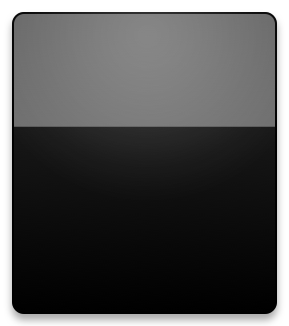
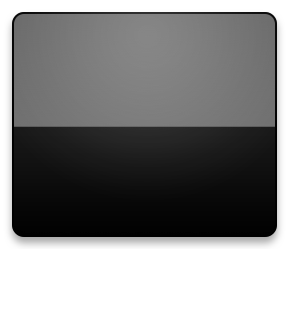
widget now slides open

Changed region(s): [[0.0311, 0.7055, 0.9654, 1.0]]

diff --git a/src/css/widget.css b/src/css/widget.css
@@ -9,6 +9,7 @@ h2 { font-size: 15px; font-family: 'Lucida Grande'; padding: 6px 0px 0px }
 .widgetside .widgetcontent { padding: 20px 20px; height: 310px; position: relative; }
 
 #front { background: transparent url('../images/bg-front-collapsed.png') no-repeat 0px 0px; }
+#front.expanding { background: transparent url('../images/bg-front-collapsed-sliding.png') no-repeat 0px 0px; }
 #front.expanded { background-image: url('../images/bg-front.png'); }
 #back { background: transparent url('../images/bg-back.png') no-repeat 0px 0px; }
 
@@ -39,16 +40,18 @@ input[type=text].error { background: #fcc; }
 #time_container #time { float: left; }
 #time_container input[type=button] { float: right; margin-left: 5px; vertical-align: middle; margin-top: 1px; }
 
-#reportcontainer { position: absolute; top: 155px; left: 20px; width: 250px; }
+#reportcontainerbutton { font-size: 9px; position: absolute; top: 109px; left: 0px; width: 100%; text-align: center;  }
+#reportcontainerbutton a { color: #fff; text-decoration: none; }
+
+#reportcontainer { position: absolute; top: 128px; left: -2px; width: 265px; padding-left: 22px; }
+#reportcontainer.sliding { background: transparent url('../images/slide-bottom.png') no-repeat 2px bottom; overflow: hidden; }
+#reportcontainer div:first-child { margin: 20px 0px 25px; position: absolute; bottom: 0px; }
 #reporthours { width: 30px; font-size: 11px; margin-left: 5px; }
 #reportdescription { width: 195px; font-size: 11px; margin-top: 3px; }
 #reportdate { margin: 3px 0px 0px; }
 #reportdate_toggle { font-size: 9px; margin: 3px 0px 0px; cursor: pointer; }
 #todolist { height: 70px; overflow: auto; width: 200px; }
 #todos { width: 248px; }
+#reportbtn { position: absolute; top: 51px; right: 0px; }
 
-#reportbtn { position: absolute; top: 65px; right: 0px; }
-
-#reportcontainerbutton { font-size: 9px; position: absolute; top: 129px; left: 0px; width: 100%; text-align: center;  }
-#reportcontainerbutton a { color: #fff; text-decoration: none; }
-
+#slidebottom { position: absolute; left: -17px; bottom: 0px; }

diff --git a/src/js/widget.js b/src/js/widget.js
@@ -109,11 +109,19 @@ function setup() {
 	$("#show_project").click(openProjectURL);
 	$("#reportdate_toggle").click(function() { $("#reportdate").fadeToggle(200) });
 	$("#reportcontainerbutton").toggle(function() {
-		$("#front").addClass("expanded");
-		$("#reportcontainer").show(); 
+		$("#front").addClass("expanding");
+		$("#reportcontainer").css('height', '27px').addClass('sliding').animate({ height: '+=94px' }, 2500, 'swing', function() {
+			$("#front").removeClass("expanding");
+			$("#front").addClass("expanded");
+			$(this).removeClass('sliding').show();
+		});
 	}, function() {
-		$("#front").removeClass("expanded");
-		$("#reportcontainer").hide(); 
+		$("#front").addClass("expanding").removeClass('expanded');
+		$("#reportcontainer").addClass('sliding').animate({ height: '-=94px' }, 2500, 'swing', function() {
+			$("#front").removeClass("expanding");
+			$("#front").removeClass("expanded");
+			$(this).removeClass('sliding').hide();
+		});
 	});
 	// }}}
 }
@@ -358,7 +366,6 @@ function changeProject() {
 		} else {
 			pullProjectTodoLists(prj.id);
 		}
-		$("#reportcontainer").show();
 		$("#show_project").show();
 	}
 }
